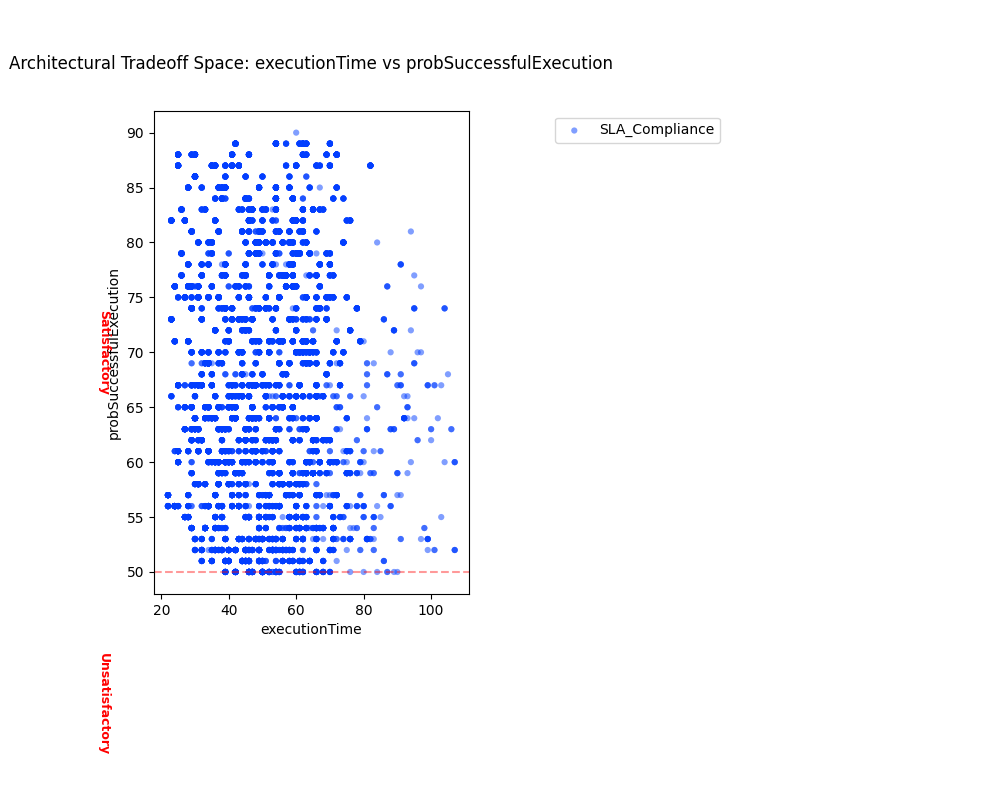
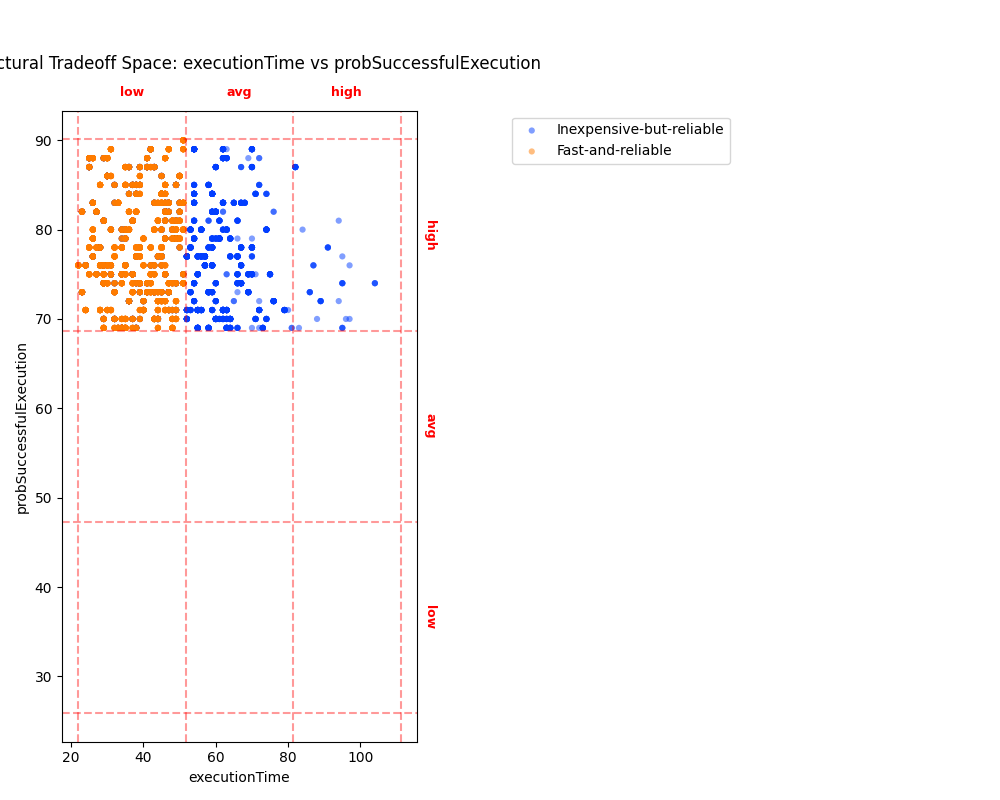
feat(viz): Finalize 2D scatter plot features with invisible background strategy and bounding rectangles

diff --git a/patterns/Toy_Example/analysis.py b/patterns/Toy_Example/analysis.py
@@ -1,8 +1,7 @@
-"""
-"""
 import argparse
 import os
 import json
+import itertools
 from adept import PatternAnalysis
 
 def run_analysis(json_path: str, outdir: str, validate_integrity: bool = True) -> None:
@@ -15,8 +14,8 @@ def run_analysis(json_path: str, outdir: str, validate_integrity: bool = True) -
     # 2. Load
     session.load(validate_integrity=validate_integrity)
     
-    print("DEBUG: Sampling data to 1%...")
-    sample_df = session.raw_df.sample(frac=0.01, random_state=42)
+    print("DEBUG: Sampling data to 10%...")
+    sample_df = session.raw_df.sample(frac=0.1, random_state=42)
     session.raw_df = sample_df
     session.experiments_df = session.experiments_df.loc[sample_df.index]
     session.outcomes_df = session.outcomes_df.loc[sample_df.index]
@@ -38,7 +37,6 @@ def run_analysis(json_path: str, outdir: str, validate_integrity: bool = True) -
         elif scheme_name == 'pareto' or scheme_name == 'pareto_nadir':
             discrete_df, schemes = session.define_tradeoffs(method='pareto')
         elif scheme_name == 'threshold':
-            # Extract params from the first tradeoff of this scheme
             params = tradeoffs[0].params
             discrete_df, schemes = session.define_tradeoffs(method='threshold', params=params)
         elif scheme_name == 'pareto_epsilon':
@@ -74,11 +72,10 @@ def run_analysis(json_path: str, outdir: str, validate_integrity: bool = True) -
                 print(f"Error generating plot for {tradeoff.name}: {e}")
 
         # Generate 2D Scatter Plots for all pairs of outcomes
-        import itertools
         outcome_cols = list(session.outcomes_df.columns)
         for x_col, y_col in itertools.combinations(outcome_cols, 2):
             try:
-                # Standard plot (with background)
+                # 1. Standard plot (with background)
                 fig = session.show_quality_objective_space(
                     x_col, y_col, 
                     highlight_tradeoffs=tradeoffs,
@@ -87,13 +84,34 @@ def run_analysis(json_path: str, outdir: str, validate_integrity: bool = True) -
                 scatter_path = os.path.join(outdir, f"scatter_{x_col}_vs_{y_col}.png")
                 fig.savefig(scatter_path)
                 print(f"Scatter plot saved to: {scatter_path}")
+
+                # 2. Focused plot (invisible background for scaling)
+                fig_f = session.show_quality_objective_space(
+                    x_col, y_col, 
+                    highlight_tradeoffs=tradeoffs,
+                    show_overall=False
+                )
+                scatter_path_f = os.path.join(outdir, f"scatter_{x_col}_vs_{y_col}_focused.png")
+                fig_f.savefig(scatter_path_f)
+                print(f"Focused scatter plot saved to: {scatter_path_f}")
+
+                # 3. Rectangle plot (no point coloring, just bounding boxes)
+                fig_r = session.show_quality_objective_space(
+                    x_col, y_col, 
+                    highlight_tradeoffs=tradeoffs,
+                    show_overall=True,
+                    color_points=False,
+                    draw_rectangles=True
+                )
+                scatter_path_r = os.path.join(outdir, f"scatter_{x_col}_vs_{y_col}_rect.png")
+                fig_r.savefig(scatter_path_r)
+                print(f"Rectangle scatter plot saved to: {scatter_path_r}")
             except Exception as e:
                 print(f"Error generating scatter plot for {x_col} vs {y_col}: {e}")
 
         # 4. Discover
-        print(f"Discovering scenarios for {len(tradeoffs)} tradeoffs...")
+        print(f"Skipping scenario discovery for faster plot testing...")
         # Only discover for the current batch of tradeoffs
-        # We manually call discover for each because discover_tradeoffs iterates ALL tradeoffs
         for tradeoff in tradeoffs:
             print(f"  Analyzing Tradeoff: {tradeoff.name} ({tradeoff.description})")
             try:
@@ -110,6 +128,7 @@ def run_analysis(json_path: str, outdir: str, validate_integrity: bool = True) -
             except Exception as e:
                 print(f"    Error analyzing {tradeoff.name}: {e}")
                 all_results[f"tradeoff_{tradeoff.name}_error"] = str(e)
+        
 
     # 5. Export
     results_path = os.path.join(outdir, "analysis_results.json")
@@ -128,7 +147,6 @@ def run_analysis(json_path: str, outdir: str, validate_integrity: bool = True) -
 
 def main():
     parser = argparse.ArgumentParser()
-    # Default to the local ArchExample_Discretization.json
     parser.add_argument("--config", default="patterns/Toy_Example/ArchExample_Discretization.json")
     parser.add_argument("--outdir", default="patterns/Toy_Example/out")
     parser.add_argument("--no-validate", action="store_true", help="Disable data integrity validation")

diff --git a/adept/analysis/visualization.py b/adept/analysis/visualization.py
@@ -103,6 +103,8 @@ def plot_tradeoff_distribution(
     
 
 
+import matplotlib.patches as patches
+
 def show_quality_objective_space(
     outcomes_df: pd.DataFrame,
     x_metric: str,
@@ -110,6 +112,8 @@ def show_quality_objective_space(
     schemes: List[DiscretizationScheme],
     highlight_indices_map: Optional[Dict[str, np.ndarray]] = None,
     show_overall: bool = True,
+    color_points: bool = True,
+    draw_rectangles: bool = False,
     alpha: float = 0.5,
     figsize: tuple = (10, 8)
 ) -> plt.Figure:
@@ -121,9 +125,11 @@ def show_quality_objective_space(
         x_metric: Name of the metric for X axis.
         y_metric: Name of the metric for Y axis.
         schemes: List of DiscretizationScheme objects.
-        highlight_indices_map: Optional map of {label: indices} to highlight in different colors.
+        highlight_indices_map: Optional map of {label: indices} to highlight.
         show_overall: Whether to show the gray background of all points.
-        alpha: Transparency for the points.
+        color_points: Whether to apply color to the highlighted points.
+        draw_rectangles: Whether to draw a bounding rectangle around highlighted points.
+        alpha: Transparency for the points/rectangles.
         figsize: Figure size.
         
     Returns:
@@ -131,12 +137,17 @@ def show_quality_objective_space(
     """
     fig, ax = plt.subplots(figsize=figsize)
     
-    # 1. Plot background (all points) if requested
-    if show_overall:
-        sns.scatterplot(
-            data=outcomes_df, x=x_metric, y=y_metric, 
-            ax=ax, color='gray', alpha=alpha, label='Overall', s=20
-        )
+    # 1. Plot background (all points)
+    # If show_overall is False, we plot them invisible (alpha=0) and without a label
+    # to maintain the full axis scale without cluttering the legend.
+    sns.scatterplot(
+        data=outcomes_df, x=x_metric, y=y_metric, 
+        ax=ax, 
+        color='gray' if show_overall else 'white', 
+        alpha=alpha if show_overall else 0, 
+        label='Overall' if show_overall else None, 
+        s=20
+    )
     
     # 2. Draw segmentation lines and axis labels
     line_color = 'red'
@@ -181,10 +192,28 @@ def show_quality_objective_space(
         colors = sns.color_palette("bright", n_colors=len(highlight_indices_map))
         for i, (label, indices) in enumerate(highlight_indices_map.items()):
             subset = outcomes_df.iloc[indices]
-            if not subset.empty:
+            if subset.empty:
+                continue
+                
+            color = colors[i]
+            
+            # A. Draw Rectangles
+            if draw_rectangles:
+                x_min, x_max = subset[x_metric].min(), subset[x_metric].max()
+                y_min, y_max = subset[y_metric].min(), subset[y_metric].max()
+                
+                rect = patches.Rectangle(
+                    (x_min, y_min), x_max - x_min, y_max - y_min,
+                    linewidth=2, edgecolor=color, facecolor=color, alpha=0.2,
+                    label=f"{label} (Area)" if not color_points else None
+                )
+                ax.add_patch(rect)
+
+            # B. Plot Points
+            if color_points:
                 sns.scatterplot(
                     data=subset, x=x_metric, y=y_metric, 
-                    ax=ax, color=colors[i], label=label, s=20, alpha=alpha, edgecolors='none'
+                    ax=ax, color=color, label=label, s=20, alpha=alpha, edgecolors='none'
                 )
 
     # pad=30 pushes the title up to avoid interval labels
